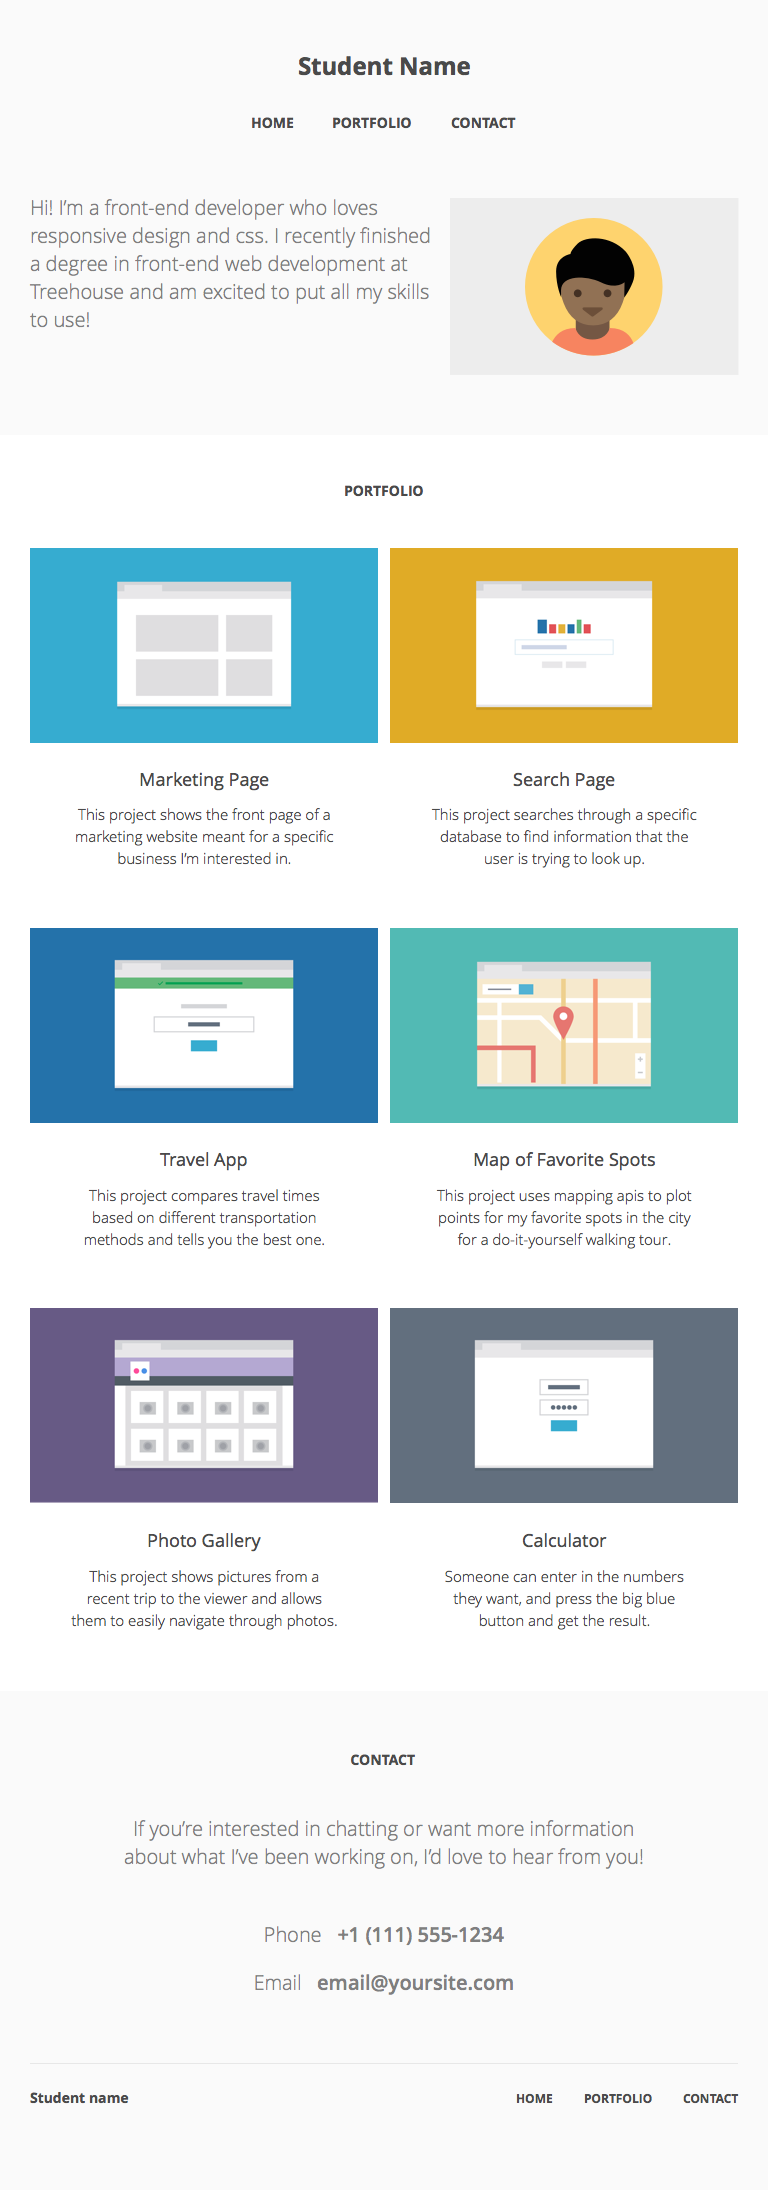
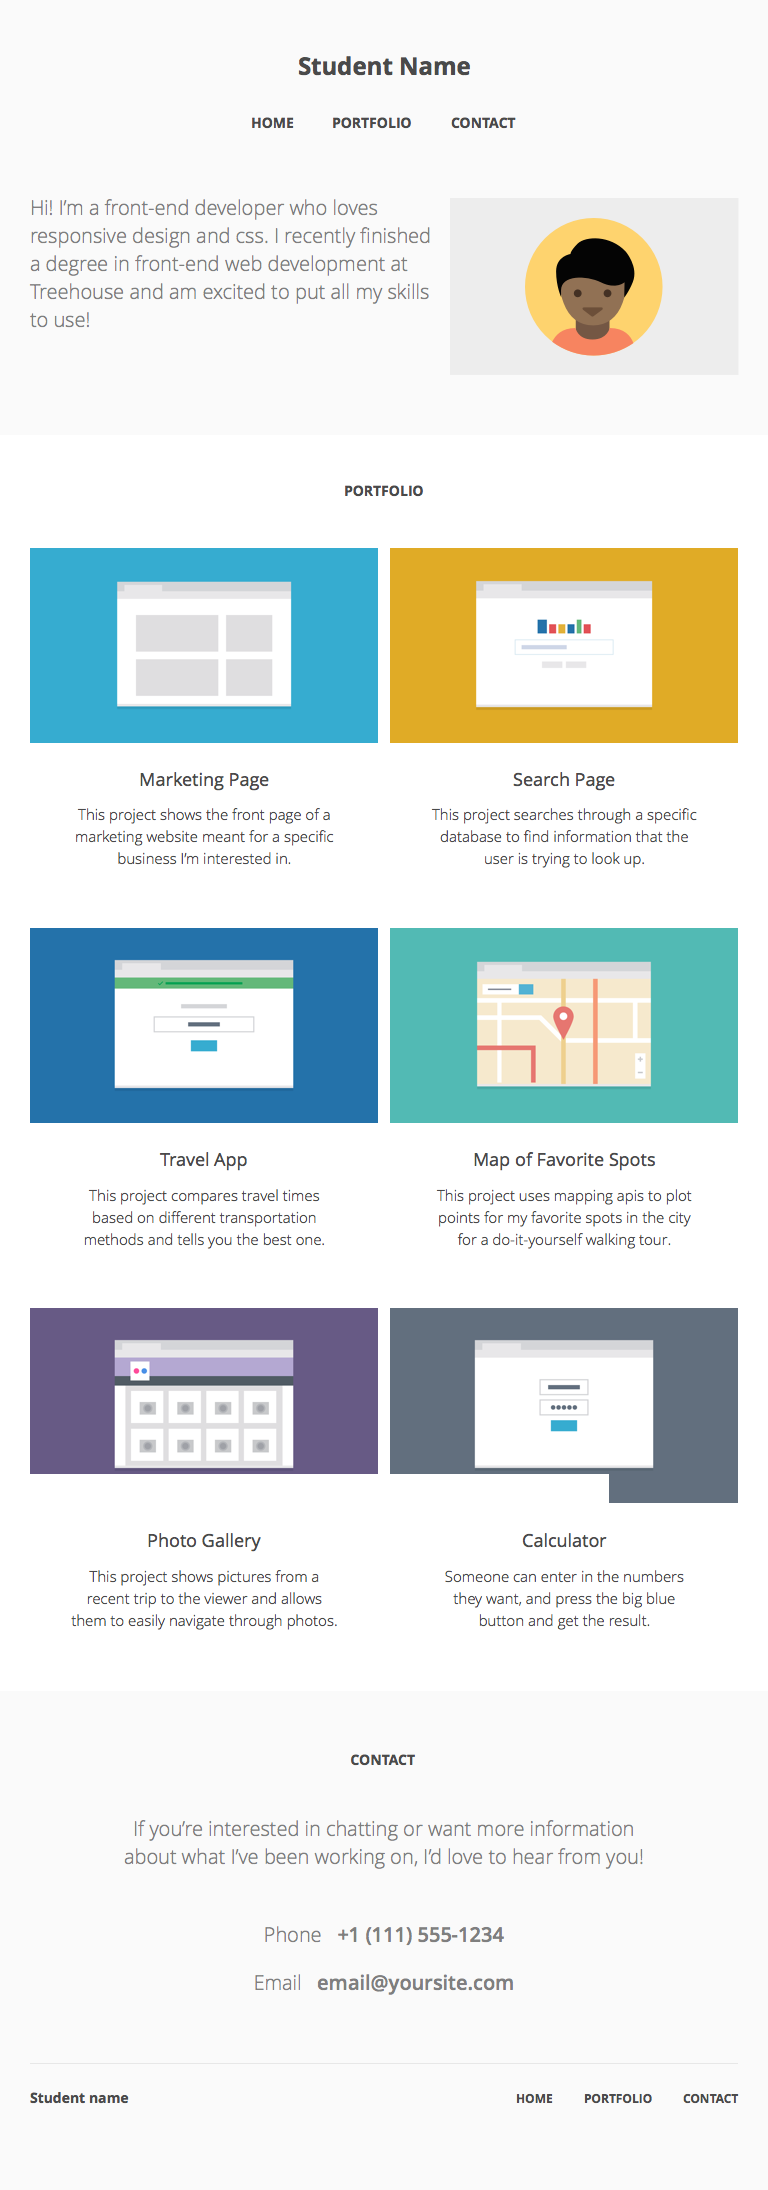
update for extra credit

Changed region(s): [[0.0312, 0.6521, 0.8125, 0.7142]]

diff --git a/index.html b/index.html
@@ -57,7 +57,7 @@
 				</div>
 
 				<div class="card4 card">
-					<img src="img/portfolio-4.png" alt ="map of spots">
+					<img src="img/portfolio-6.png" alt ="map of spots">
 					<h3>Map of Favorite Spots</h3>
 					<p>This project uses mapping apis to plot points for my favorite spots in the city for a do-it-yourself walking tour.</p>
 				</div>
@@ -69,11 +69,29 @@
 				</div>
 
 				<div class="card6 card">
-					<img src="img/portfolio-6.png" alt ="Calculator">
+					<img src="img/portfolio-4.png" alt ="Calculator">
 					<h3>Calculator</h3>
-					<p>Someone can enter in the numbers they want, and press the big blue button and get the result.</p>
+					<p>Someone can enter in the numbers they want, and press the big blue button and get the result. Cool.</p>
+				</div>
+
+				<div class="card7 card">
+					<img src="img/portfolio-7.png" alt ="Video Player">
+					<h3>HTML and CSS Video Player</h3>
+					<p>Create a custom player bar and upload cool videos hopefully as cool as nPettit's class ->shout out to great teachers! </p>
+				</div>
+
+				<div class="card8 card">
+					<img src="img/portfolio-8.png" alt ="Video Playlist">
+					<h3>Video Playlist</h3>
+					<p>Use JavaScript to create your own playlist. So long sad algorithims that controled my banal experience. </p>
 				</div>
 			
+				<div class="card9 card">
+					<img src="img/portfolio-9.png" alt ="Tables">
+					<h3>Tables and Forms</h3>
+					<p>Some things never change. But now with jQuery...</p>
+				</div>
+
 			</div>
 		</div>
 

diff --git a/css/style.css b/css/style.css
@@ -142,7 +142,7 @@ p
 .main-footer {
 	text-align: center;
 	padding: 0 2em;
-	background: turquoise;
+	background: #e8e8ee;
 }
 
 .portfolio,
@@ -163,7 +163,11 @@ p
 
 
 /* -------------- Footer ---------------- */
+.f {
 
+	border-top-color: #333;
+	border-top: .5px dotted;
+}
 
 .foot-nav {
 	display: flex;

diff --git a/css/responsive.css b/css/responsive.css
@@ -118,6 +118,7 @@
 	min-width: 300px;
 }
 
+
 }
 
 
